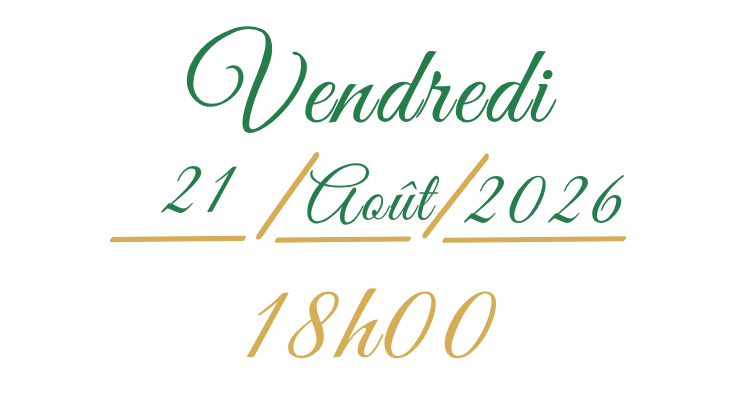
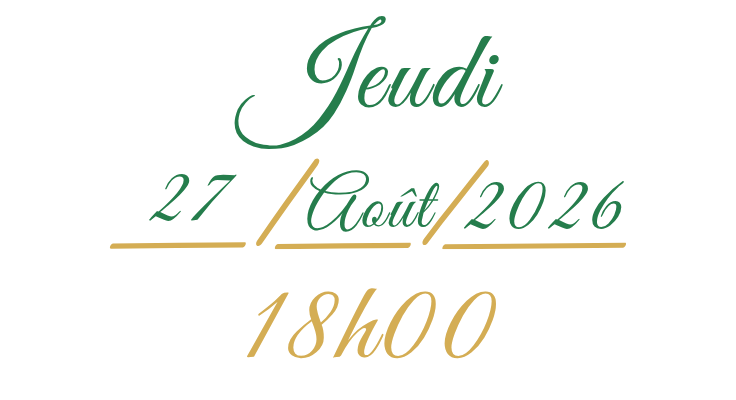
Date and place update to 27/08 and The Garden

Changed region(s): [[0.125, 0.39, 0.875, 0.63], [0.25, 0.03, 0.75, 0.39]]

diff --git a/src/config.js b/src/config.js
@@ -32,13 +32,15 @@ export const weddingConfig = {
   // 📍 LOCALISATIONS (cartes Google Maps)
   locations: [
     {
-      title: "Lieu de réception",
+      title: "THE GARDEN (Ouaga 2000)",
       address: "Ouagadougou, Burkina Faso",
-      embed: "https://www.google.com/maps/embed?pb=!1m17!1m12!1m3!1d4642.207396785558!2d-1.465659498220589!3d12.392533096723131!2m3!1f0!2f0!3f0!3m2!1i1024!2i768!4f13.1!3m2!1m1!2zMTLCsDIzJzMzLjYiTiAxwrAyNyc0Ni40Ilc!5e0!3m2!1sfr!2sbf!4v1786807320299!5m2!1sfr!2sbf",
-      openLink: "https://maps.app.goo.gl/NwifyDnnfxNVTMGe9"
+      embed: "https://www.google.com/maps/embed?pb=!1m18!1m12!1m3!1d3898.1309921939187!2d-1.5187264!3d12.3069643!2m3!1f0!2f0!3f0!3m2!1i1024!2i768!4f13.1!3m3!1m2!1s0xe2ebd61309f32bd%3A0xb0b698cdf8996f12!2sTHE%20GARDEN%20Restaurant%20-%20Lounge!5e0!3m2!1sfr!2sbf!4v1787048035043!5m2!1sfr!2sbf",
+      openLink: "https://maps.app.goo.gl/EUSeKhDc3XnTWoFw7?g_st=iw"
     }
   ], 
   
+
+
   // 🎵 MUSIQUE
   musicUrl: "/music.mp3",
   musicTitle: "Fally Ipupa - 8ème merveille",
@@ -75,7 +77,7 @@ export const weddingConfig = {
     "(Sourate 30, verset 21)",
   
   // ⏰ DATE ISO pour countdown (format: YYYY-MM-DDTHH:mm:ss)
-  dateISO: "2026-08-21T18:00:00",
+  dateISO: "2026-08-27T18:00:00",
   
   // 🌸 FLEURS DÉCORATIVES
   flowers: {

diff --git a/src/components/IntroEnvelope.vue b/src/components/IntroEnvelope.vue
@@ -308,7 +308,7 @@ position:absolute;
 }
 
 .dateImg {
-  width: min(300px, 65vw);  /* Pas énorme */
+  width: min(280px, 65vw);  /* Pas énorme */
   height: auto;
   display: block;
   object-fit: contain;      /* Garde l'aspect ratio */
@@ -345,7 +345,7 @@ position:absolute;
 
 /* enveloppe */
 .envBtn{
-  margin-top: 10px;
+  margin-top: 2px;
   border: none;
   background: transparent;
   padding: 0;
@@ -353,7 +353,7 @@ position:absolute;
 }
 
 .envelope{
-  width: min(240px, 50vw);
+  width: min(220px, 50vw);
   height: auto;
   display: block;
   margin: -30px auto;
